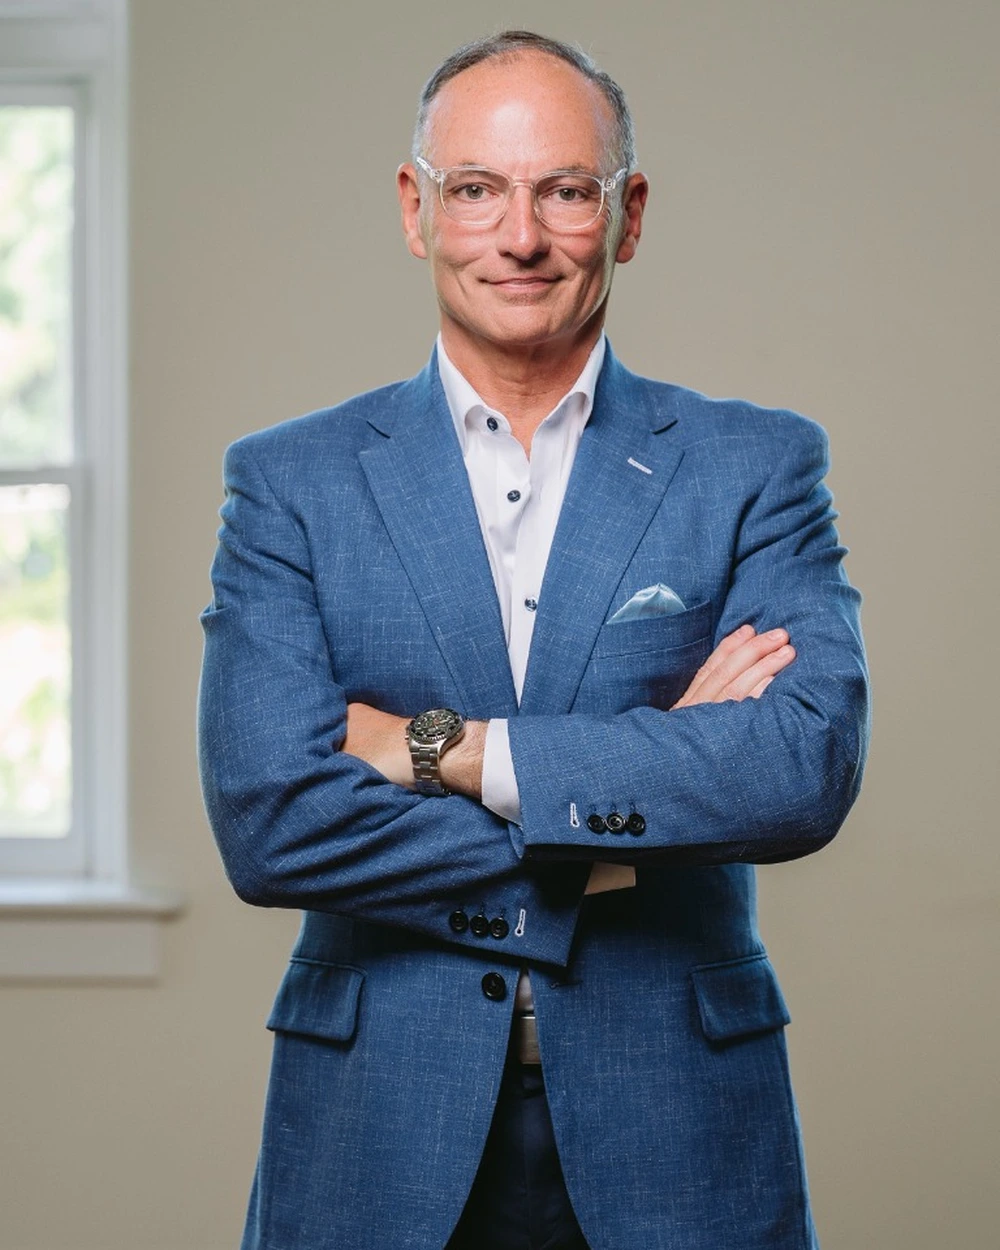
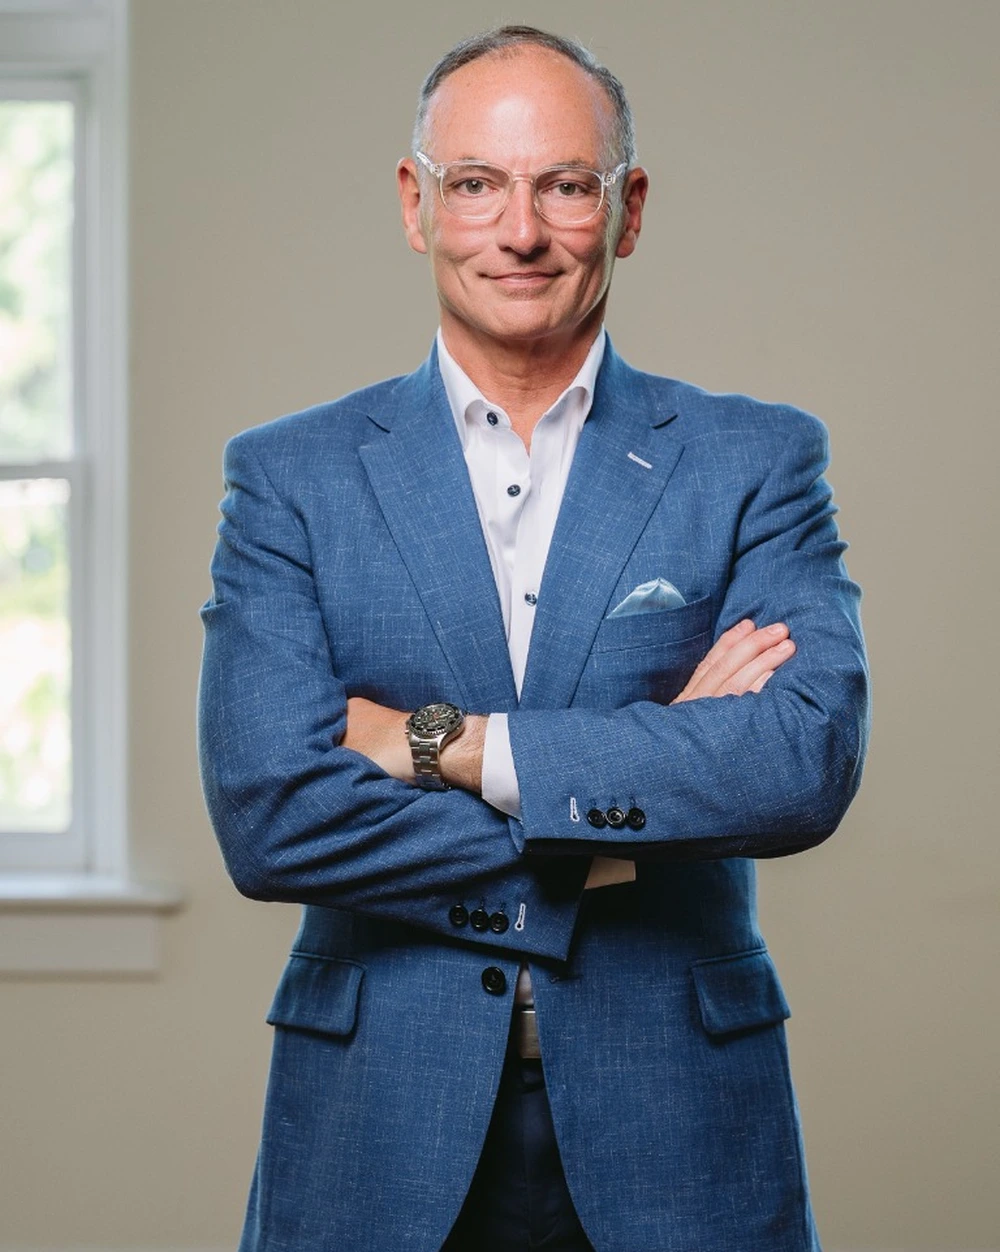
Align Meet Michael section layout, portrait crop, and styling to exact visual reference

diff --git a/styles.css b/styles.css
@@ -582,45 +582,51 @@ h1 {
 
 .about__grid {
   display: grid;
-  grid-template-columns: minmax(0px, 1fr) minmax(0px, 1.15fr);
-  grid-template-areas: "h h" "img copy";
-  gap: 0px clamp(32px, 5vw, 96px);
+  grid-template-columns: minmax(0px, 1fr) minmax(0px, 1.18fr);
+  grid-template-areas:
+    "title ."
+    "media copy";
+  gap: 0px clamp(36px, 5.5vw, 84px);
+  align-items: start;
 }
 
-.about h2 {
-  grid-area: h;
+.about__title {
+  grid-area: title;
   font-size: clamp(38px, 4.8vw, 76px);
   line-height: 0.95;
-  margin-bottom: clamp(28px, 3.4vw, 52px);
+  margin-bottom: clamp(24px, 3vw, 36px);
+  color: var(--navy);
+}
+
+.about__media {
+  grid-area: media;
 }
 
 .about__img {
-  grid-area: img;
+  margin: 0px;
 }
 
-.about__img picture > img {
+.about__img img {
   display: block;
   width: 100%;
   height: auto;
-  aspect-ratio: 4 / 5;
+  aspect-ratio: 768 / 962;
   object-fit: cover;
-  object-position: center center;
-  border: 1px solid var(--line);
+  object-position: center top;
+  border: none;
 }
 
 .about__signature {
-  margin-top: clamp(18px, 2.2vw, 28px);
-  padding-top: 0px;
+  margin: clamp(18px, 2.4vw, 28px) 0px 0px 0px;
+  padding: 0px;
 }
 
 .about__signature img {
   display: block;
-  width: auto;
-  max-width: clamp(190px, 18vw, 250px);
+  width: 100%;
+  max-width: 100%;
   height: auto;
-  aspect-ratio: auto;
-  border: none;
-  opacity: 0.94;
+  opacity: 0.96;
   filter: contrast(1.05);
 }
 
@@ -630,30 +636,33 @@ h1 {
 }
 
 .about__lede {
-  font: 400 clamp(24px, 2.3vw, 34px) / 1.12 var(--head);
+  font: 400 clamp(16px, 1.45vw, 20px) / 1.18 var(--head);
   text-transform: uppercase;
   color: var(--navy);
-  margin-bottom: 20px;
+  margin-bottom: 16px;
+  letter-spacing: 0.01em;
 }
 
 .about__copy p {
-  margin-bottom: 18px;
-  font-size: 17px;
-  line-height: 1.6;
+  margin-bottom: 14px;
+  font-size: 15.5px;
+  line-height: 1.55;
+  color: var(--slate);
 }
 
 .cv {
-  margin-top: 28px;
-  border-top: 3px solid var(--navy);
+  margin-top: 22px;
+  border-top: 1px solid rgba(29, 48, 66, 0.35);
 }
 
 .cv li {
-  font: 400 clamp(19px, 1.7vw, 26px) / 1.15 var(--head);
+  font: 400 clamp(17px, 1.4vw, 21px) / 1.1 var(--head);
   text-transform: uppercase;
   color: var(--navy);
-  padding: 12px 0px 12px 32px;
-  border-bottom: 1px solid var(--line);
+  padding: 9px 0px 9px 22px;
+  border-bottom: 1px solid rgba(29, 48, 66, 0.14);
   position: relative;
+  letter-spacing: 0.01em;
 }
 
 .cv li::before {
@@ -661,9 +670,9 @@ h1 {
   position: absolute;
   left: 0px;
   top: 50%;
-  width: 12px;
-  height: 12px;
-  margin-top: -6px;
+  width: 7px;
+  height: 7px;
+  margin-top: -3.5px;
   background: var(--gold);
 }
 
@@ -1197,14 +1206,20 @@ h1 {
   }
   .about__grid {
     grid-template-columns: minmax(0px, 1fr);
-    grid-template-areas: "h" "img" "copy";
+    grid-template-areas:
+      "title"
+      "media"
+      "copy";
   }
-  .about h2 {
+  .about__title {
     font-size: clamp(38px, 4.8vw, 76px);
+    margin-bottom: 20px;
+  }
+  .about__media {
     margin-bottom: 24px;
   }
   .about__copy {
-    padding-top: 24px;
+    padding-top: 0px;
   }
   .books__grid {
     grid-template-columns: 1fr;

diff --git a/index.html b/index.html
@@ -187,23 +187,25 @@
     <!-- SECTION: MEET MICHAEL (ABOUT) -->
     <section class="about" id="about" aria-labelledby="about-h">
       <div class="wrap about__grid">
-        <h2 id="about-h">Meet Michael</h2>
+        <h2 id="about-h" class="about__title">Meet Michael</h2>
 
-        <div class="about__img">
-          <picture>
-            <source
-              type="image/webp"
-              srcset="/assets/img/about-portrait-640w.webp 640w, /assets/img/about-portrait-1000w.webp 1000w"
-              sizes="(max-width: 900px) 100vw, 45vw"
-            >
-            <img
-              src="/assets/img/about-portrait.jpg"
-              alt="Portrait of Michael A. Graham, retired U.S. Army Reserve Colonel, attorney, and author"
-              width="1000"
-              height="1250"
-              loading="lazy"
-            >
-          </picture>
+        <div class="about__media">
+          <figure class="about__img">
+            <picture>
+              <source
+                type="image/webp"
+                srcset="/assets/img/about-portrait-640w.webp 640w, /assets/img/about-portrait-1000w.webp 1000w"
+                sizes="(max-width: 900px) 100vw, 45vw"
+              >
+              <img
+                src="/assets/img/about-portrait.jpg"
+                alt="Portrait of Michael A. Graham, retired U.S. Army Reserve Colonel, attorney, and author"
+                width="768"
+                height="962"
+                loading="lazy"
+              >
+            </picture>
+          </figure>
 
           <figure class="about__signature">
             <picture>
@@ -211,8 +213,8 @@
               <img
                 src="/assets/img/signature.png"
                 alt="Signature of Colonel (Ret.) Michael A. Graham"
-                width="240"
-                height="61"
+                width="600"
+                height="152"
                 loading="lazy"
               >
             </picture>
